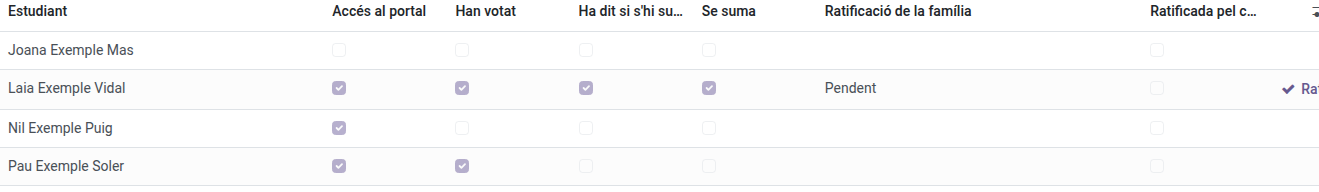
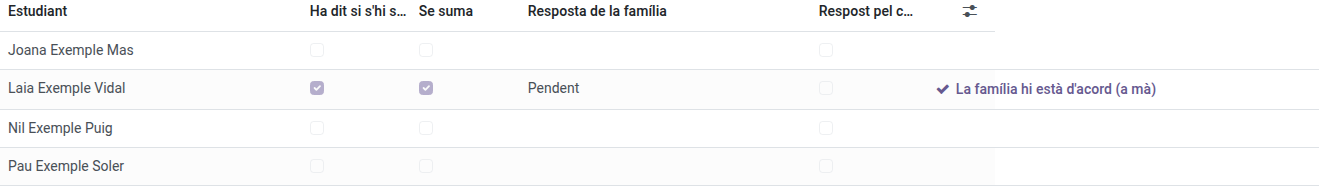
Walkout manuals: screenshots of the by-hand button and the joining page; the capture hides two columns so the button shows (#844)

diff --git a/tests/test_docs_screenshots_student_walkout.py b/tests/test_docs_screenshots_student_walkout.py
@@ -88,7 +88,14 @@ class TestDocsScreenshotsStudentWalkout(DocsScreenshotMixin, HttpCase):
         """Issue #840: the Students tab, with the button to ratify by hand a minor whose family has not answered."""
         self._capture(f'/odoo/action-ems.action_student_walkout/{self.joining.id}', ".o_field_widget[name='line_ids']",
                       'tutor-walkout-ratify-by-hand.png', login=self.tutor.login,
-                      wait_for="button[name='action_ratify_manually']")
+                      wait_for="button[name='action_ratify_manually']",
+                      # Two columns this manual does not talk about are hidden: with them, the button's
+                      # column falls off the right edge of the tab.
+                      run="document.head.insertAdjacentHTML('beforeend', '<style>.o_field_widget[name=line_ids] "
+                          "th[data-name=has_portal], .o_field_widget[name=line_ids] td[name=has_portal], "
+                          ".o_field_widget[name=line_ids] th[data-name=voted], .o_field_widget[name=line_ids] td[name=voted] "
+                          "{display: none !important}</style>')",
+                      wait_after="button[name='action_ratify_manually']")
 
     def test_capture_head_of_studies_closed(self):
         # beyond_viewport=False: resizing the page for a taller shot would close the dropdown.
